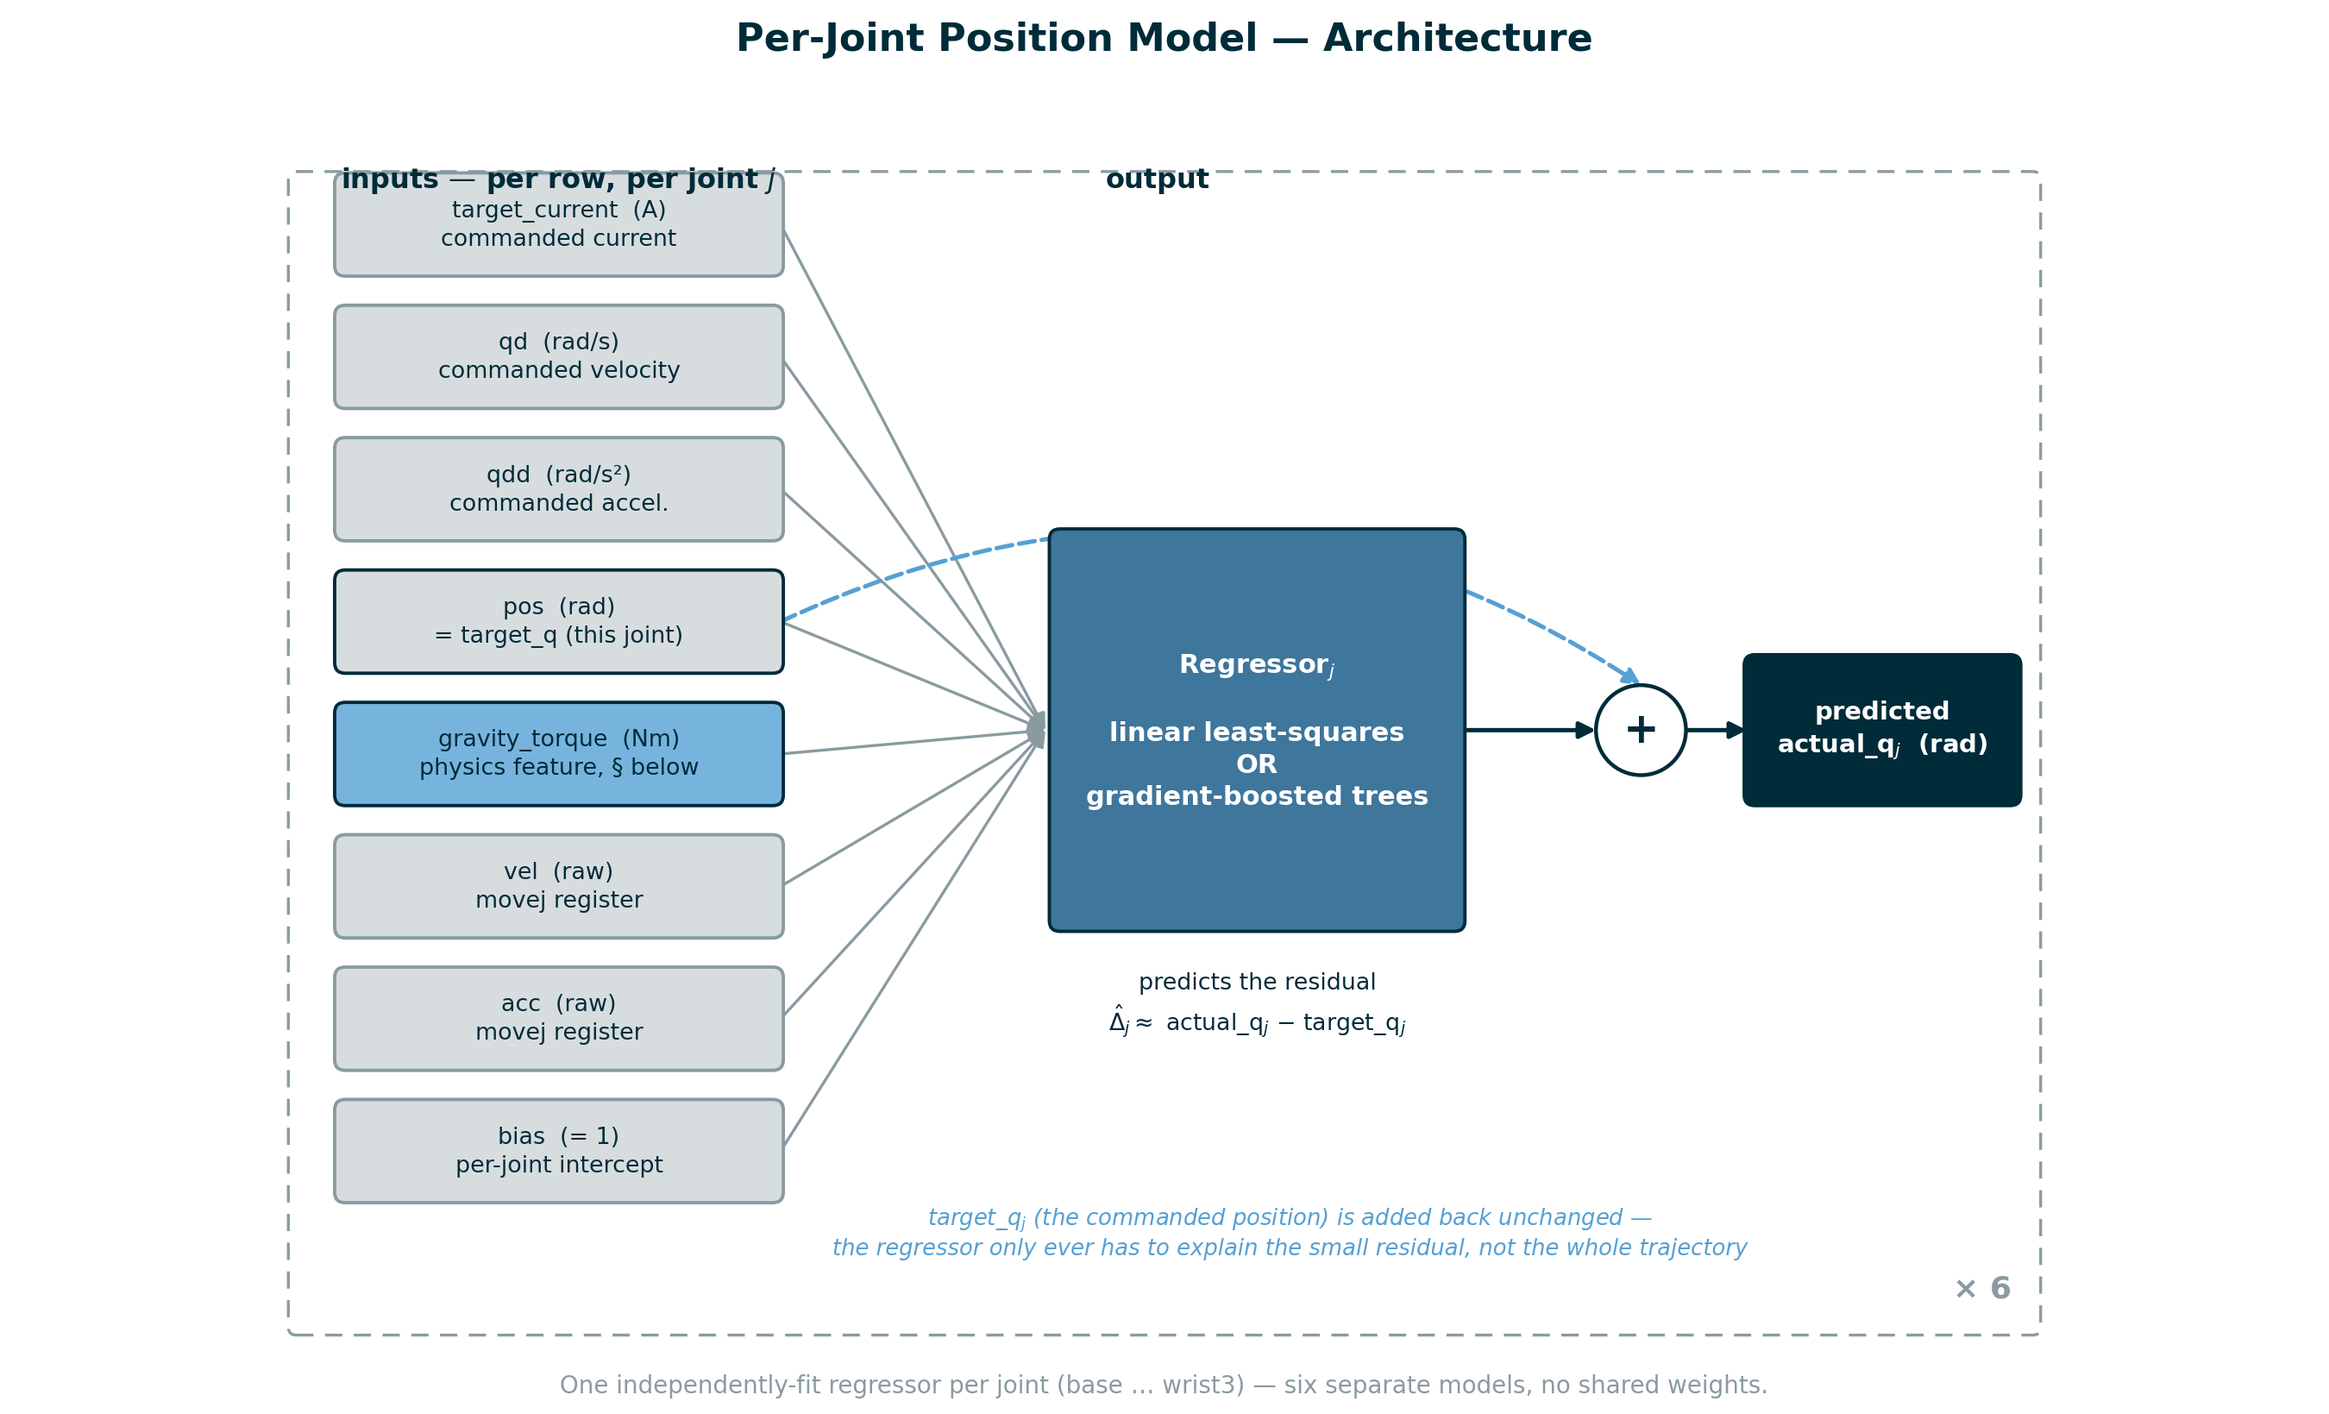
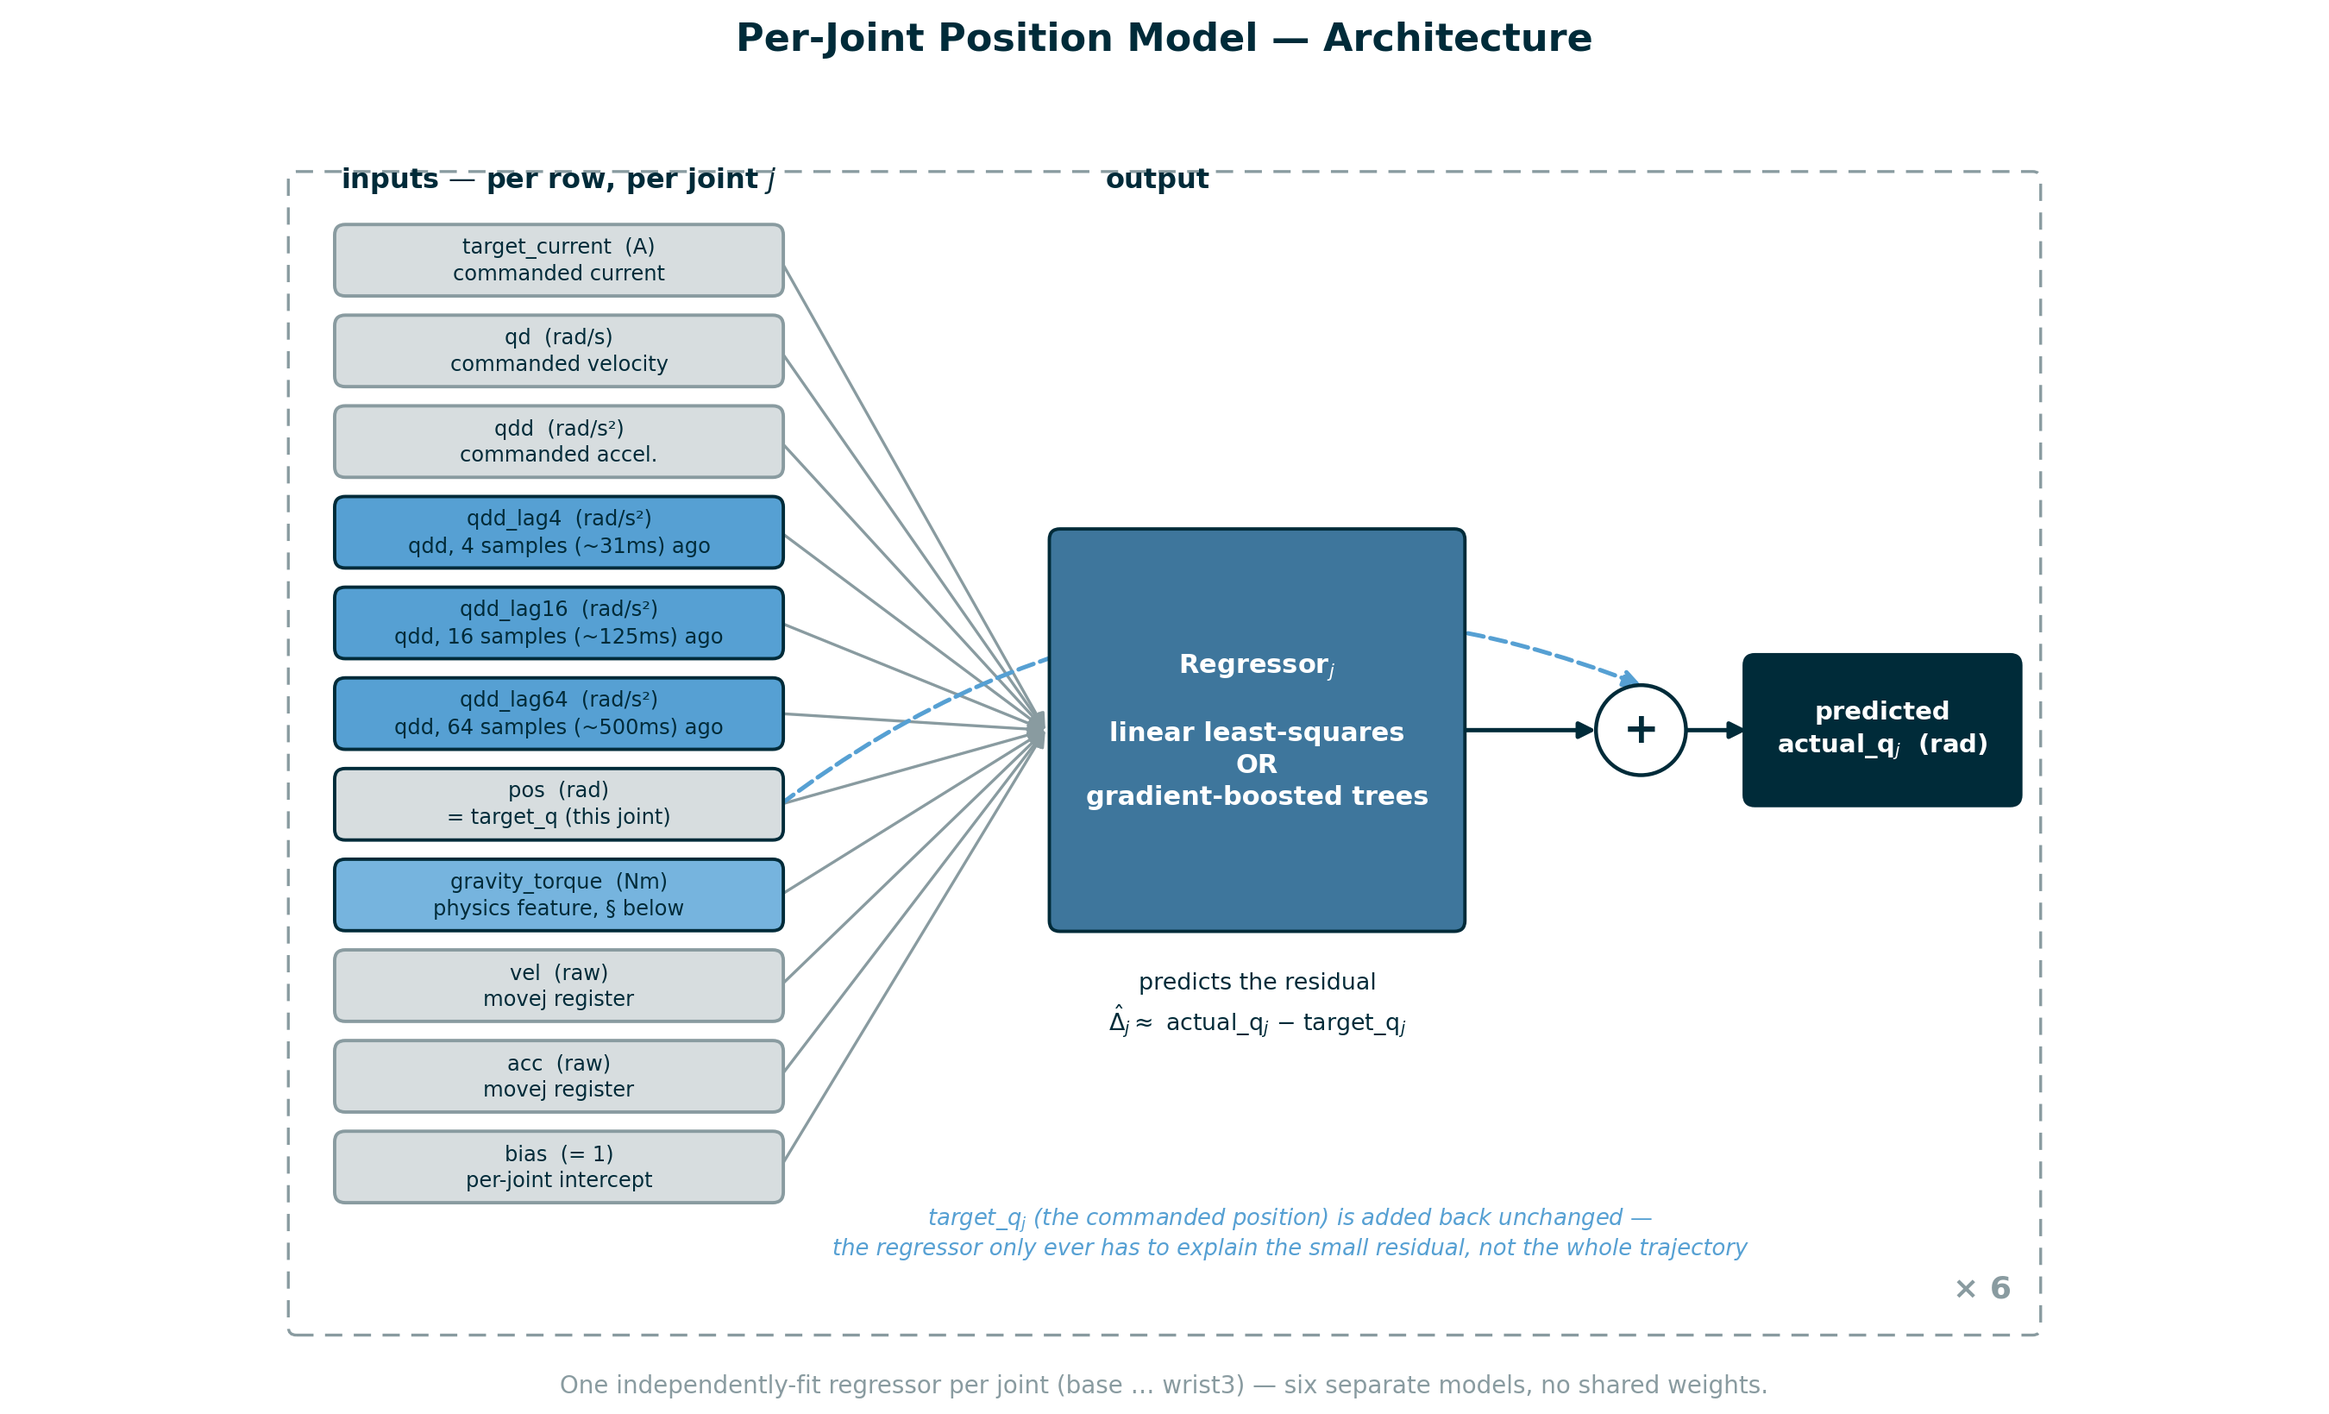
Update model architecture documentation and diagram to include new features: gravity torque and lag inputs

Changed region(s): [[0.1244, 0.1245, 0.4667, 0.8401], [0.6844, 0.4667, 0.7156, 0.4979], [0.6533, 0.4356, 0.6844, 0.4667]]

diff --git a/case 2/plot_model_diagram.py b/case 2/plot_model_diagram.py
@@ -1,7 +1,7 @@
 """Architecture diagram for the per-joint position model, for the report.
 
 Shows the shared pipeline both PerJointPositionModel and PerJointTreeModel
-use: eight input features -> one regressor per joint -> predicted residual
+use: eleven input features -> one regressor per joint -> predicted residual
 -> added back to the commanded position -> predicted actual_q. The
 regressor box is generic (linear least-squares or gradient-boosted trees)
 since the surrounding architecture is identical either way -- only the
@@ -24,12 +24,23 @@ FEATURES = [
     ("target_current", "A", "commanded current"),
     ("qd", "rad/s", "commanded velocity"),
     ("qdd", "rad/s²", "commanded accel."),
+    ("qdd_lag4", "rad/s²", "qdd, 4 samples (~31ms) ago"),
+    ("qdd_lag16", "rad/s²", "qdd, 16 samples (~125ms) ago"),
+    ("qdd_lag64", "rad/s²", "qdd, 64 samples (~500ms) ago"),
     ("pos", "rad", "= target_q (this joint)"),
     ("gravity_torque", "Nm", "physics feature, § below"),
     ("vel", "raw", "movej register"),
     ("acc", "raw", "movej register"),
     ("bias", "= 1", "per-joint intercept"),
 ]
+
+# Feature names highlighted as "hand-engineered, not raw-logged" -- gravity is
+# a physics feature computed from the full pose, the qdd_lag* taps are this
+# model's only features with memory (causal, per-recording -- see
+# train_distillation_model._lag_array). Distinct colors so a reader can see
+# at a glance these two additions aren't just more of the raw signal.
+_PHYSICS_FEATURE = "gravity_torque"
+_LAG_FEATURES = {"qdd_lag4", "qdd_lag16", "qdd_lag64"}
 
 
 def _box(ax, xy, w, h, text, *, face, edge, text_color=None, fontsize=10.5,
@@ -59,16 +70,24 @@ def plot_model_diagram(out_path: str = "model_architecture.png"):
     ax.axis("off")
 
     # ---- input feature boxes ---------------------------------------------
-    in_x, in_w, in_h = 0.5, 3.35, 0.74
-    ys = [7.5, 6.5, 5.5, 4.5, 3.5, 2.5, 1.5, 0.5]
+    # Packed to fit 11 rows (was 8) into the same vertical band [0.5, 8.24]
+    # the diagram used before the qdd_lag* taps were added, so the frame/
+    # title positions below don't need to move.
+    in_x, in_w = 0.5, 3.35
+    box_top, box_bottom = 7.85, 0.5     # leaves headroom below the "inputs" title at y=8.15
+    in_h = 0.5
+    step = (box_top - in_h - box_bottom) / (len(FEATURES) - 1)
+    ys = [box_top - in_h - i * step for i in range(len(FEATURES))]
     in_boxes = {}
     for (name, unit, note), y in zip(FEATURES, ys):
-        is_gravity = name == "gravity_torque"
+        is_gravity = name == _PHYSICS_FEATURE
+        is_lag = name in _LAG_FEATURES
         is_pos = name == "pos"
-        face = ur_style.LIGHT_BLUE if is_gravity else ur_style.GRID
-        edge = ur_style.NAVY if (is_gravity or is_pos) else ur_style.GRAY
+        face = (ur_style.LIGHT_BLUE if is_gravity else
+               ur_style.MID_BLUE if is_lag else ur_style.GRID)
+        edge = ur_style.NAVY if (is_gravity or is_lag or is_pos) else ur_style.GRAY
         _box(ax, (in_x, y), in_w, in_h,
-            f"{name}  ({unit})\n{note}", face=face, edge=edge, fontsize=9.7)
+            f"{name}  ({unit})\n{note}", face=face, edge=edge, fontsize=8.7)
         in_boxes[name] = (in_x + in_w, y + in_h / 2)
 
     ax.text(in_x + in_w / 2, 8.15, "inputs — per row, per joint $j$",

diff --git a/case 2/ModelReview.md b/case 2/ModelReview.md
@@ -6,6 +6,152 @@ entry to the Changelog at the bottom, and edit the sections above it so they
 always describe the *current* state (don't leave the body describing an old
 version — that's what the changelog is for).
 
+## 0. Plain-language summary — for slides
+
+The rest of this document is the working log. This section is the pitch:
+what the shipped model (`models/distill.pkl`, `PerJointTreeModel` with
+gravity + lag, see §6) does and why gravity and history were worth adding,
+without requiring the reader to know what gradient boosting or R² is.
+
+**One sentence**: for each joint, the model predicts how far off the real
+robot's position will end up from what was commanded, as a function of how
+that joint is being driven *right now and a moment ago*, plus how hard
+gravity is pulling on it at the current arm pose — and adds that correction
+on top of the commanded trajectory.
+
+### The basic trick: predict the error, not the position
+
+A commanded trajectory (`target_q`) already tells you almost everything
+about where the joint will be — the real robot follows it closely. So
+instead of asking the model to predict the whole position from scratch, we
+only ask it to predict the small leftover gap:
+
+```
+predicted_position(t) = commanded_position(t) + predicted_error(t)
+```
+
+`predicted_error(t)` is millirad-scale (a small fraction of a degree);
+`commanded_position(t)` can swing over the whole trajectory (radians). This
+is the difference between asking someone to describe a photo from scratch
+versus asking them to mark up what's wrong with a photo that's already 99%
+right — the second question is easier and the answers are more comparable
+across very different joints. (§2 in the sections below calls this the
+*residual*.)
+
+### One model per joint, not one model for the whole arm
+
+The base, shoulder, elbow and the three wrist joints don't behave alike —
+different gearing, different mass driven, different typical speeds. A single
+formula tuned to fit all six at once ends up compromising, dominated by
+whichever joints have the biggest numbers (the base/shoulder/elbow). So the
+model is really six small, independent models — one per joint, each free to
+learn that joint's own sensitivity to the inputs — packaged behind one
+interface (§2).
+
+### Why gradient-boosted trees, not a straight-line formula
+
+The first version of this model was linear — one fixed formula per joint,
+e.g. "position error grows by this much per unit of commanded velocity, plus
+this much per unit of gravity torque, plus …," all added together with fixed
+weights. That's easy to read off as a table of coefficients, but it assumes
+every input affects the error independently and proportionally — no
+"only matters when moving fast *and* against gravity at the same time" kind
+of effect.
+
+Gradient-boosted trees drop that assumption: instead of one formula, the
+model is a sequence of simple decision-tree rules ("if commanded velocity is
+above X *and* gravity torque is above Y, add Z"), each correcting what the
+previous rules got wrong. That lets it pick up on interactions between the
+inputs automatically, without anyone having to guess and hand-write the
+interaction terms. Switching from the straight-line formula to trees, with
+the exact same inputs, nearly doubled the explained error variance (§6) —
+that gain is the regressor picking up nonlinear structure already present in
+the same data, not new information.
+
+### Why gravity torque helps: it's a real, physical, missing input
+
+Holding the arm out against gravity takes real motor torque, and torque
+translates into a small elastic "sag" — the same way a shelf bracket flexes
+more under a heavy load than a light one. That sag *is* part of the position
+error we're trying to predict. The model wasn't being told about it directly
+before — it only saw joint angles and commanded speeds, which correlate with
+gravity loading only loosely.
+
+The physical quantity is the manipulator's **gravity torque vector**, from
+standard rigid-body dynamics:
+
+```
+M(q)·q̈ + C(q, q̇)·q̇ + g(q) = τ
+```
+
+`g(q)` — torque needed at each joint just to hold the current pose `q`
+against gravity, with no motion at all — is exactly the missing input. It
+depends on the whole arm's pose at once (how the elbow is bent changes the
+load felt at the shoulder), not just one joint's own angle, so it's computed
+once from the full 6-joint pose and then split out per joint
+(`utils.UR10e.gravity`, §3). Feeding this in means the model doesn't have to
+*rediscover* gravity's effect from position/velocity data alone — it's
+handed the answer directly, the same way an engineer would rather look up a
+formula than reverse-engineer it from a scatter plot.
+
+**Where it helped, and where it didn't, is itself evidence it's real
+physics and not a lucky correlation**: it moved shoulder and wrist2 (joints
+that visibly sag under load) and left base and wrist3 essentially untouched
+— base rotates about the vertical axis, so gravity does ~zero work turning
+it, exactly as the physics predicts (§3).
+
+### Why "lag" (history) features help: the arm keeps moving after the command stops
+
+After a fast move, a real joint doesn't stop instantly — it overshoots
+slightly and rings, like a diving board settling after someone steps off it,
+for a few tenths of a second. That ringing is *why* the position error at
+this instant depends on what the joint was doing a moment ago, not just what
+it's doing right now. A model that only ever looks at the current instant
+has no way to tell "just started, moving fast" apart from "already stopped,
+still ringing from a moment ago" — both can look identical in an
+instantaneous snapshot.
+
+The fix is to hand the model a short memory: alongside the commanded
+acceleration *right now*, also give it the same signal from a few moments
+earlier:
+
+```
+qdd_lag_k(t) = commanded_acceleration(t − k samples),  k = 4, 16, 64
+             ≈ commanded_acceleration 31 / 125 / 500 ms ago
+```
+
+Three snapshots spread across roughly the ring's decay time (~0.3–0.5s) —
+not a full continuous history, just enough for the model to notice "there
+was a hard stop recently" and how hard. This is the model's *only* source of
+memory; every other input is still a single instant in time.
+
+**Result, and why it's convincing**: this was the single biggest jump in
+the whole project. Shoulder — the joint with the most visible ringing —
+gained the most of any joint on both models, and the gains lined up with
+which joints actually have a visible ring, not a blanket improvement across
+the board (§3/§6).
+
+### Putting it together — the net effect
+
+| step | overall R² (0 = no better than assuming no error, 1 = perfect) |
+|---|---|
+| straight-line formula, no physics inputs | 0.44 |
+| + gradient-boosted trees (same inputs) | 0.88 |
+| + gravity torque | 0.92 |
+| + lag/history features (**shipped model**) | **0.92**, and the *per-joint* numbers shift meaningfully (see §6) |
+
+(R² here specifically measures how much of the *tracking gap* — the
+millirad-scale error, not the whole trajectory — the model explains; see §4
+for why that framing matters and how it differs from a more naive score.)
+
+Read together: trees vs. a straight-line formula was the single biggest
+jump in aggregate; gravity and lag are smaller in the aggregate number but
+each is *targeted* — each closed a specific, physically-understood gap
+(gravity: static sag on the joints that actually carry load against gravity;
+lag: the settle-window ring on the joints that visibly exhibit one) rather
+than moving every joint a little. See §6 for the full per-joint breakdown
+and `model_architecture.png` for a diagram of the whole pipeline.
+
 ## 1. What we predict
 
 **Position**, not current. `PerJointPositionModel.predicts() -> ["actual_q"]`
@@ -390,8 +536,15 @@ less efficiently — while shoulder/elbow/base's residual is nonlinear enough
 that the tree's flexibility wins outright. Different joints may simply want
 different model shapes; not tested here (would mean per-joint model
 selection, not just a per-joint *fit*, which both models already do).
-`models/distill_tree.pkl` saved alongside `models/distill.pkl` (still the
-default/shipped model — `--model` default unchanged).
+`models/distill_tree.pkl` saved alongside `models/distill.pkl`. **Update
+(2026-08-19, later the same day): `PerJointTreeModel` is now the shipped
+default** — retrained with `--model tree_per_joint --out models/distill.pkl`
+(`results/2026-08-19_21-06-24/`, overall R²=0.9195, essentially identical to
+the `distill_tree.pkl` numbers above; the ~0.001 difference is run-to-run/
+environment noise, not a code or feature change). `--model`'s CLI *default*
+flag is still `linear_per_joint` (nothing forces `tree_per_joint` from the
+command line) — this is about which pickle currently sits at the path
+`run.py`/`train_rla.py` load by default, not the CLI flag's default value.
 
 **Caveat on all of the above, not yet resolved**: these are still row-level
 held-out numbers (§5), and the leakage concern applies *more* to the tree
@@ -480,6 +633,25 @@ that doesn't have any.
 
 ## Changelog
 
+- **2026-08-19** — Added §0, a plain-language, slide-ready summary of the
+  shipped model (trees + gravity + lag) for a non-ML-expert engineering
+  audience: the residual trick, why per-joint, why trees over a linear
+  formula, why gravity and lag each help (with the manipulator-dynamics
+  `M(q)q̈ + C(q,q̇)q̇ + g(q) = τ` equation and the `qdd_lag_k` definition),
+  and a step-by-step R² table (0.44 → 0.88 → 0.92 → 0.92) tying each addition
+  to a specific, physically-understood gap it closed. Also corrected a stale
+  claim in §2/§6: `models/distill.pkl` (the path `run.py`/`train_rla.py` load
+  by default) had said "linear model, still the default" but was retrained
+  by the user directly (outside this file's usual training-run trail) with
+  `--model tree_per_joint --out models/distill.pkl` — `PerJointTreeModel`
+  (gravity + lag) is now the shipped default (`results/2026-08-19_21-06-24/`,
+  overall R²=0.9195, matching the session's separate `distill_tree.pkl` run
+  to within run-to-run noise). Also regenerated `model_architecture.png`
+  (`plot_model_diagram.py`) to show all 11 features, including the new
+  `qdd_lag4/16/64` taps (highlighted the same way `gravity_torque` already
+  was, as a hand-engineered addition rather than a raw-logged signal) — the
+  diagram had been left showing the old 8-feature version after the lag
+  features were added earlier the same day.
 - **2026-08-19** — Added `qdd_lag4`/`qdd_lag16`/`qdd_lag64` (causal FIR taps
   of commanded acceleration at 4/16/64 samples in the past, ~31/125/500 ms)
   to `PerJointPositionModel.FEATURE_NAMES` — this project's first feature
